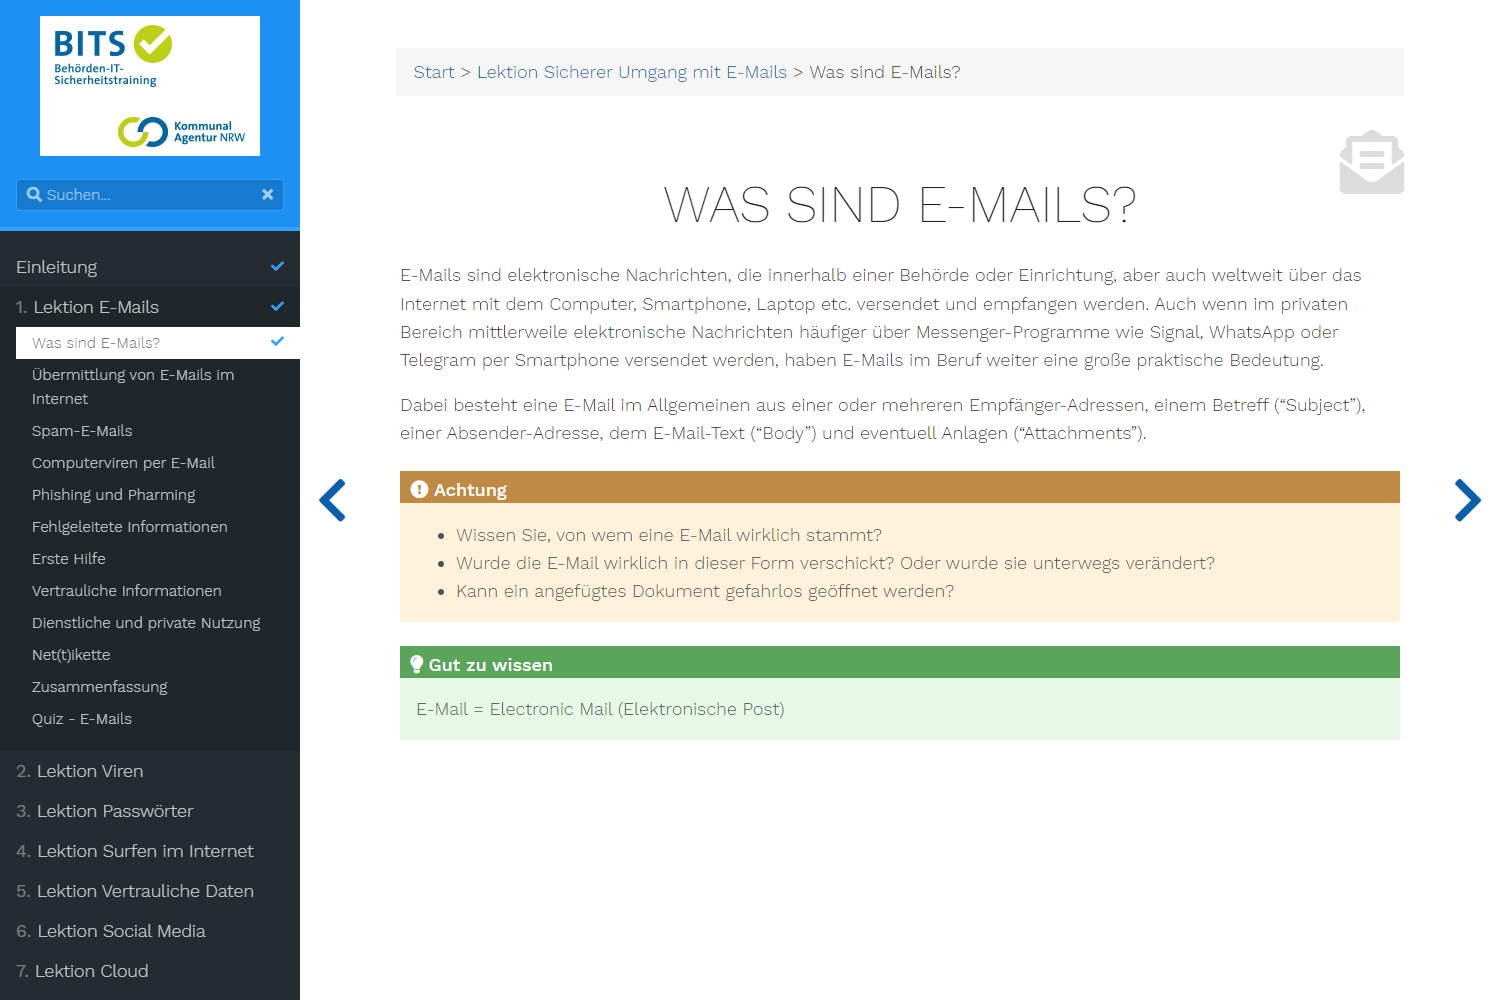
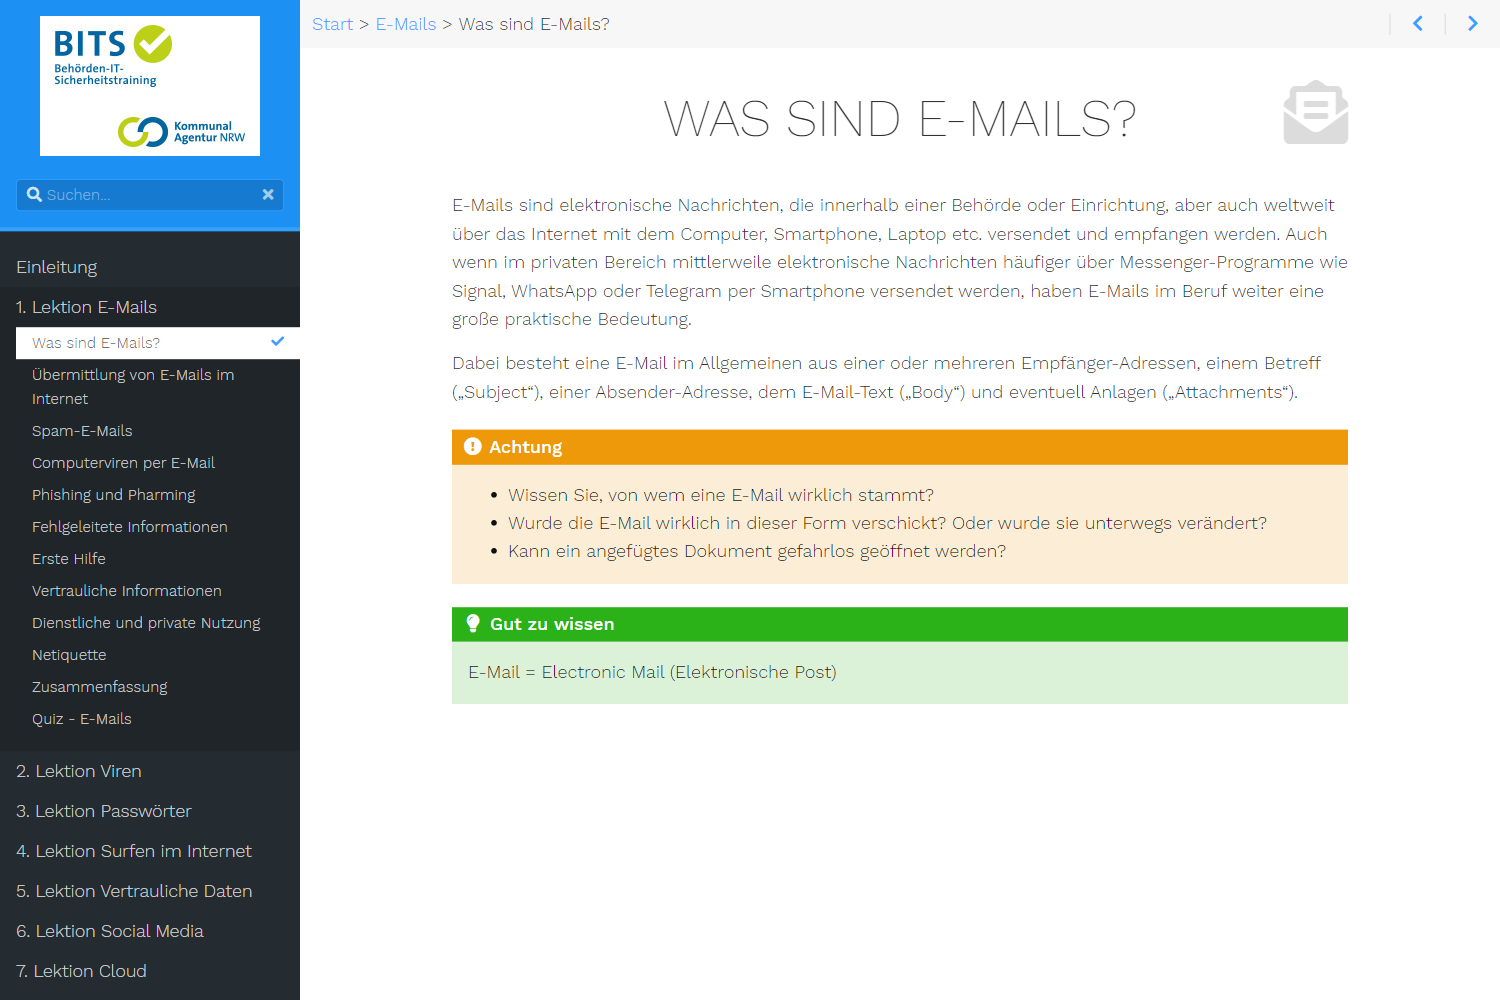
docs. update showcase screenshot #696

diff --git a/exampleSite/content/showcase/_index.en.md b/exampleSite/content/showcase/_index.en.md
@@ -14,18 +14,18 @@ A collection of poems with requirements for improved taxonomy support and additi
 
 ## [GoboLinux Wiki](https://wiki.gobolinux.org/) by NEONsys.org
 
-A Linux distribution and the inspiration for the theme's Neon variant.
+A Linux distribution documentation with customized CSS and the inspiration for the theme's Neon variant.
 
 ![GoboLinux image](gobolinux.png?width=60pc)
 
 ## [BITS](https://bits-training.de/training/) by Dr. Lutz Gollan
 
-Governmental IT security training with additional requirements for accessibility.
+Governmental IT security training with additional requirements for accessibility and title customization.
 
 ![BITS image](bits-train.png?width=60pc)
 
 ## [Pamasol Electrics](https://pamasol.github.io/de/) by Pamasol
 
-A classical documentation site with own branding in the domain of automation technology.
+A classical documentation site in the domain of automation technology with a custom branding variant.
 
 ![Pamasol Electrics](pamasol-electrics-portal.png?width=60pc)
